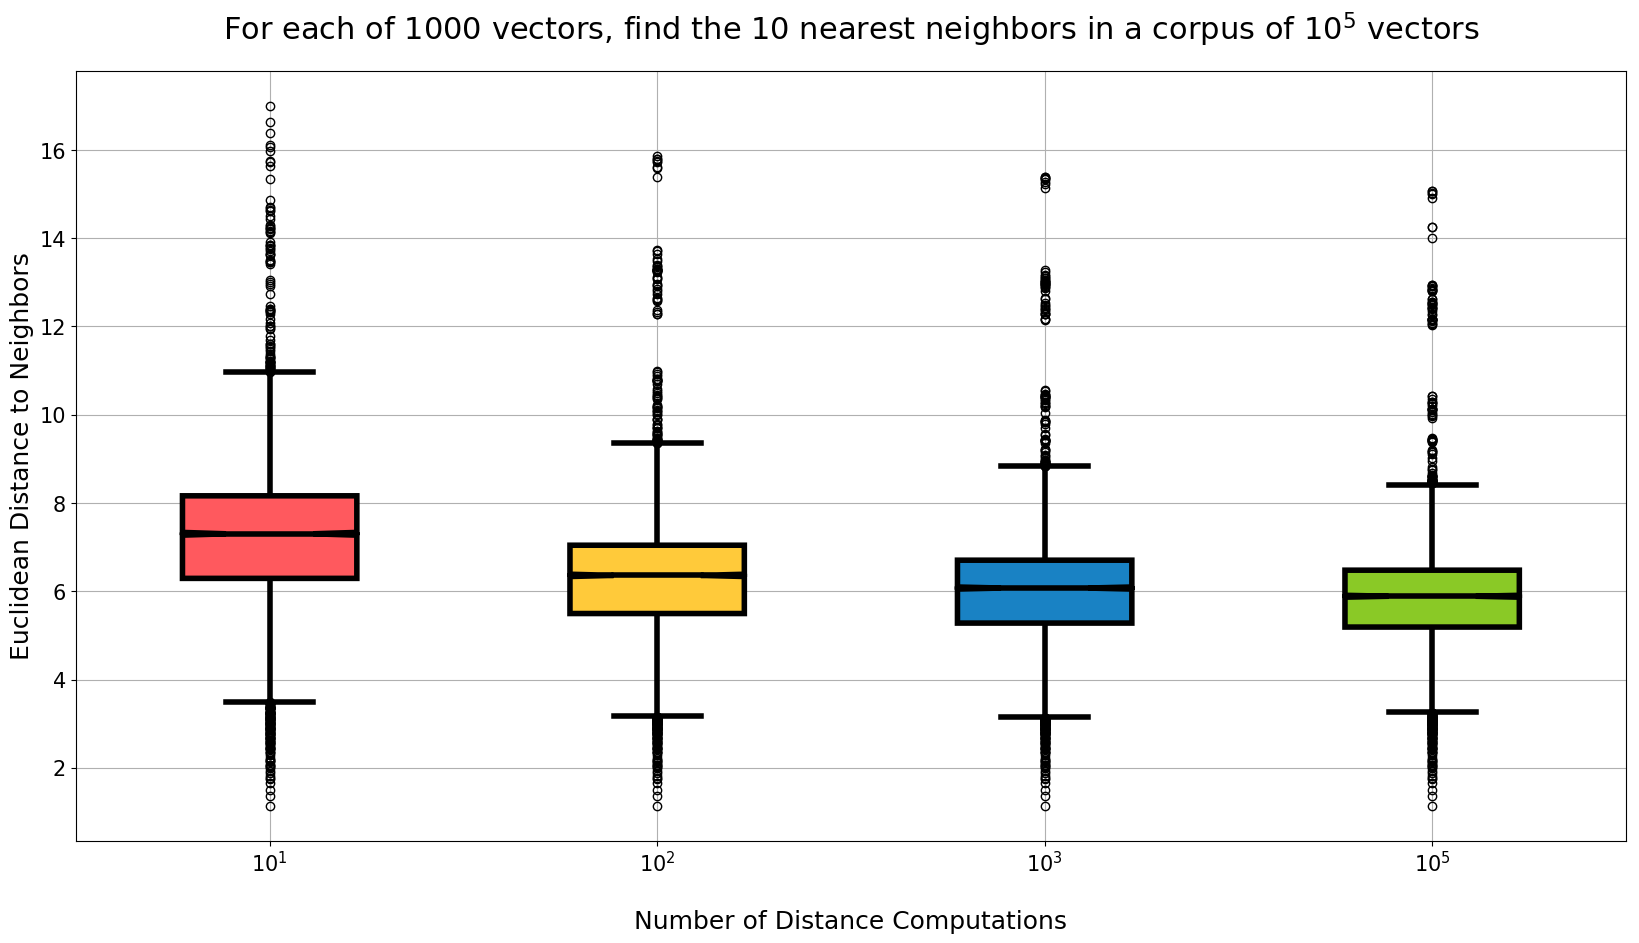
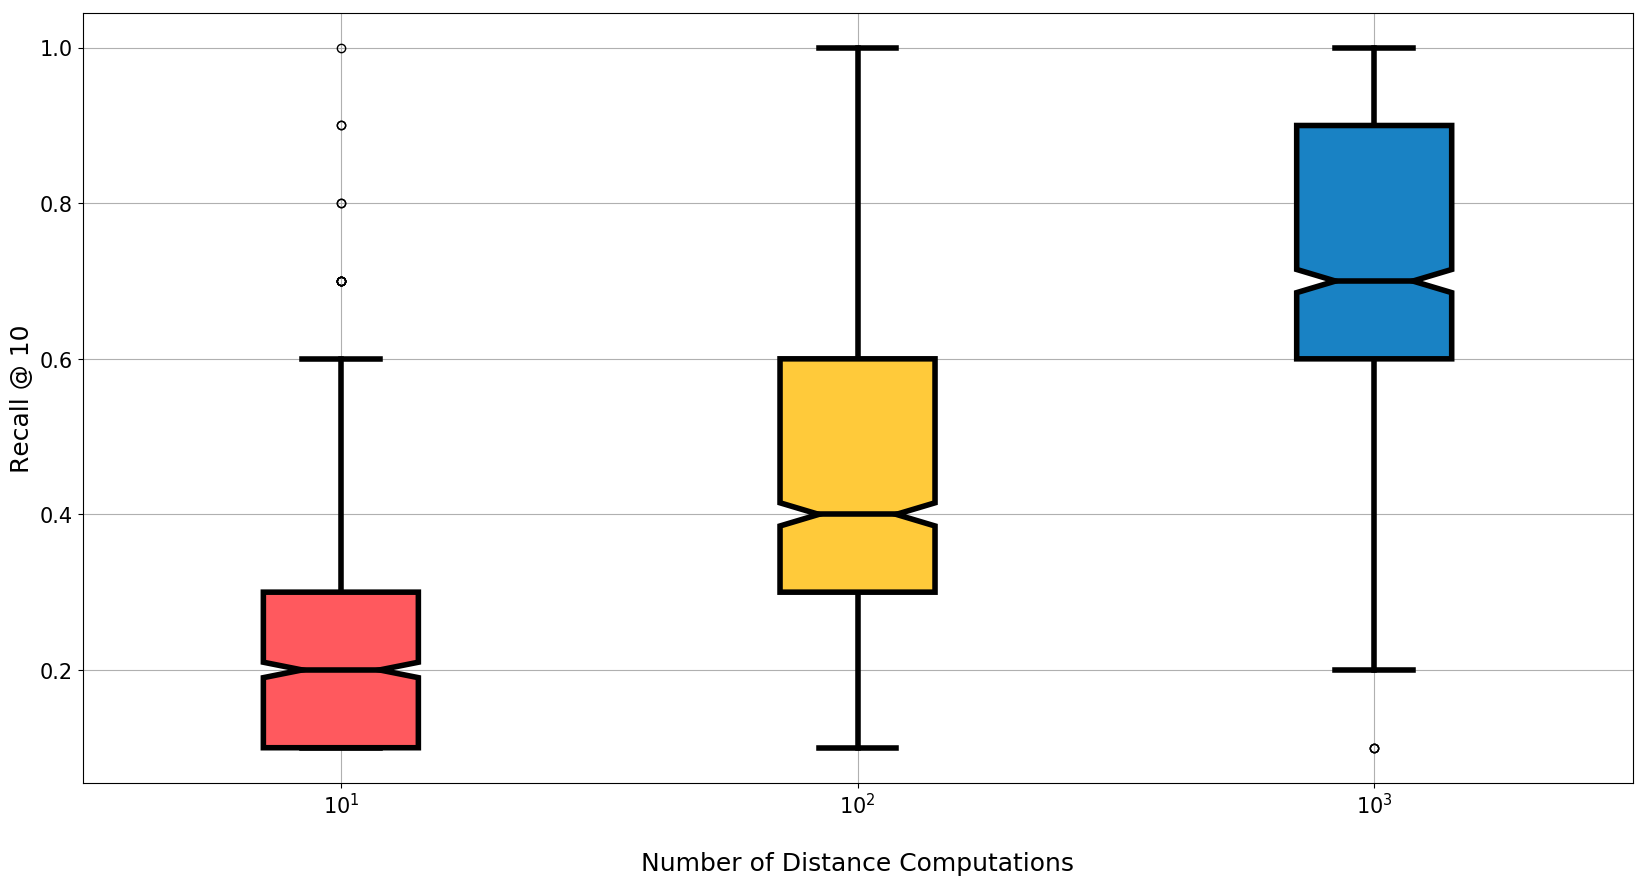
ES - round-robin indexing, measuring actual recall

diff --git a/elasticsearch-aknn/benchmark/aknn.py b/elasticsearch-aknn/benchmark/aknn.py
@@ -1,13 +1,12 @@
 """"""
 from argparse import ArgumentParser
 from collections import Counter
-from concurrent.futures import ThreadPoolExecutor, wait
+from concurrent.futures import ThreadPoolExecutor, as_completed
 from csv import DictWriter
 from itertools import cycle
 from math import log10
 from numpy import array, mean, std, vstack, zeros_like, median
 from pprint import pformat, pprint
-from sklearn.neighbors import NearestNeighbors
 from time import time
 from urllib.parse import quote_plus
 import json
@@ -30,7 +29,7 @@ def values_to_cdf(values):
     return values_unique_sorted, prlt
 
 
-def iter_over_docs(docs_path, skip=0, stop=sys.maxsize):
+def iter_local_docs(docs_path, skip=0, stop=sys.maxsize):
     for i, line in enumerate(open(docs_path)):
         if i < skip:
             continue
@@ -40,12 +39,21 @@ def iter_over_docs(docs_path, skip=0, stop=sys.maxsize):
             break
 
 
+def iter_es_docs(es_host, es_index, es_type, query={"_source": False}):
+    from elasticsearch import Elasticsearch, helpers
+    es = Elasticsearch(es_host)
+    scroll = helpers.scan(es, query=query, index=es_index, doc_type=es_type)
+    for x in scroll:
+        yield x
+    del es  # No close() method. Guess this works.
+
+
 def aknn_create(docs_path, es_hosts, es_index, es_type, es_id, description,
                 nb_dimensions, nb_tables, nb_bits, sample_prob, sample_seed):
 
     random.seed(sample_seed)
 
-    doc_iterator = iter_over_docs(docs_path)
+    doc_iterator = iter_local_docs(docs_path)
 
     es_url = es_hosts.split(",")[0]
     req_url = "%s/_aknn_create" % es_url
@@ -77,87 +85,108 @@ def aknn_create(docs_path, es_hosts, es_index, es_type, es_id, description,
     try:
         t0 = time()
         req = requests.post(req_url, json=body)
-        pdb.set_trace()
         req.raise_for_status()
         print("Request completed in %.3lf seconds" % (time() - t0))
         pprint(req.json())
     except requests.exceptions.HTTPError as ex:
-        pdb.set_trace()
         print("Request failed", ex, file=sys.stderr)
         print(ex, file=sys.stderr)
         sys.exit(1)
 
 
 def aknn_index(docs_path, metrics_path, es_hosts, es_index, es_type, aknn_uri,
-               nb_batch, nb_total_max):
+               nb_batch, nb_total_max, skip_existing):
+
+    assert es_index.lower() == es_index, "Index must be lowercase."
+    assert es_type.lower() == es_type, "Type must be lowercase."
 
     T0 = time()
-    body = {
-        "_index": es_index,
-        "_type": es_type,
-        "_aknn_uri": aknn_uri,
-        "_aknn_docs": []
-    }
 
-    es_hosts = cycle(es_hosts.split(","))
+    es_hosts = es_hosts.split(",")
+    es_hosts_iter = cycle(es_hosts)
+    print("Using %d elasticsearch hosts" % len(es_hosts), es_hosts)
 
-    # Prepare metrics csv writer.
-    fp_metrics = open(metrics_path, "w")
-    metrics_cols = ["nb_total", "nb_batch", "request_sec", "elapsed_sec"]
-    metrics_writer = DictWriter(fp_metrics, metrics_cols)
-    metrics_writer.writeheader()
-    metrics_row = {x: 0 for x in metrics_cols}
+    # Get the existing ids from the
+    ids_in_index = set([])
+    if skip_existing:
+        for doc in iter_es_docs(next(es_hosts_iter), es_index, es_type):
+            ids_in_index.add(doc["_id"])
+        print("Found %d existing ids" % len(ids_in_index))
 
-    # Get number of documents for this index/type.
-    nb_existing_url = "%s/%s/%s/_count" % (next(es_hosts), es_index, es_type)
-    try:
-        req = requests.get(nb_existing_url)
-        req.raise_for_status()
-        nb_existing = req.json()["count"]
-    except requests.exceptions.HTTPError as ex:
-        print("Request for existing count failed", ex, file=sys.stderr)
-        nb_existing = 0
+    # Based on number already in index, determine how many more to index.
+    nb_total_rem = nb_total_max - len(ids_in_index)
+    print("Indexing %d new documents" % nb_total_rem)
 
-    # Skip the existing documents in the file.
-    print("Skipping %d existing docs" % nb_existing)
-    print("Indexing %d new docs" % (nb_total_max - nb_existing))
-    doc_iterator = iter_over_docs(docs_path, nb_existing, nb_total_max)
+    # Simple iterator over local documents.
+    doc_iterator = iter_local_docs(docs_path)
 
-    for doc in doc_iterator:
-        body["_aknn_docs"].append(doc)
+    # Keep a body for each host.
+    bodies = {
+        h: {
+            "_index": es_index,
+            "_type": es_type,
+            "_aknn_uri": aknn_uri,
+            "_aknn_docs": []
+        } for h in es_hosts}
 
-        if len(body["_aknn_docs"]) == nb_batch:
-            print("Posting %d docs: [%s ... %s]" % (
-                nb_batch, body["_aknn_docs"][0]["_id"], body["_aknn_docs"][-1]["_id"]))
-            t0 = time()
-            try:
-                req_url = "%s/_aknn_index" % next(es_hosts)
-                pdb.set_trace()
-                req = requests.post(req_url, json=body)
-                req.raise_for_status()
-            except requests.exceptions.HTTPError as ex:
-                print("Request failed", file=sys.stderr)
-                print(ex, file=sys.stderr)
-                sys.exit(1)
-            body["_aknn_docs"] = []
-            metrics_row["nb_total"] += nb_batch
-            metrics_row["nb_batch"] = nb_batch
-            metrics_row["request_sec"] = round(time() - t0, 5)
-            metrics_row["elapsed_sec"] = round(time() - T0, 5)
-            metrics_writer.writerow(metrics_row)
-            print(metrics_row)
+    nb_round_robin_rem = len(es_hosts) * nb_batch
+
+    # Thread pool for parallelized round-robin requests.
+    tpool = ThreadPoolExecutor(max_workers=len(es_hosts))
+
+    while nb_total_rem > 0:
+
+        # Skip include duplicate docs.
+        doc = next(doc_iterator)
+        if doc["_id"] in ids_in_index:
+            continue
+
+        # Add a new doc to the next hosts payload and decrement counters.
+        bodies[next(es_hosts_iter)]["_aknn_docs"].append(doc)
+        nb_round_robin_rem -= 1
+        nb_total_rem -= 1
+
+        # Keep populating payloads if satisfying...
+        if nb_round_robin_rem > 0 and nb_total_rem > 0:
+            continue
+
+        # Send each host the payload that it accumulated. Keep result as future.
+        futures = []
+        for h in es_hosts:
+            body = bodies[h]
+            url = "%s/_aknn_index" % h
+            print("Sending %d docs to host %s" % (len(body["_aknn_docs"]), h))
+            futures.append(tpool.submit(requests.post, url, json=body))
+
+        # Iterate over the futures and print each host's response.
+        # Error if any of the hosts return non-200 status.
+        for f, h in zip(as_completed(futures), es_hosts):
+            print("Response from host %s:" % h, f.result().json())
+            assert f.result().status_code == 200, "Error at host %s" % h
+
+        # Reset counter and empty payloads.
+        nb_round_robin_rem = len(es_hosts) * nb_batch
+        for h in es_hosts:
+            bodies[h]["_aknn_docs"] = []
+
+        print("Total indexed docs = %d, seconds elapsed = %d" % (
+            nb_total_max - nb_total_rem, time() - T0))
 
 
-def aknn_recall(docs_path, metrics_dir, es_hosts, es_index, es_type, nb_measured,
-                k1, k2, sample_seed):
-    """Compare the distribution of euclidean distances returned for an exact
-    KNN and for various settings of Elasticsearch-Aknn."""
+def aknn_recall(docs_path, metrics_dir, es_hosts, es_index, es_type,
+                nb_measured, k1, k2, sample_seed):
+    """Compute recall for exact KNN and several settings of approximate KNN."""
 
+    from sklearn.neighbors import NearestNeighbors
+    import matplotlib
+    matplotlib.use('Agg')
     import matplotlib.pyplot as plt
     random.seed(sample_seed)
 
+    es_hosts = cycle(es_hosts.split(","))
+
     # Get number of documents for this index/type.
-    nb_existing_url = "%s/%s/%s/_count" % (es_hosts, es_index, es_type)
+    nb_existing_url = "%s/%s/%s/_count" % (next(es_hosts), es_index, es_type)
     try:
         req = requests.get(nb_existing_url)
         req.raise_for_status()
@@ -172,7 +201,7 @@ def aknn_recall(docs_path, metrics_dir, es_hosts, es_index, es_type, nb_measured
     # Compile all ids and vectors from elasticsearch into a numpy array.
     print("Reading first %d ids and vectors into memory" % nb_existing)
     ids, vecs = [], []
-    for doc in iter_over_docs(docs_path, 0, nb_existing):
+    for doc in iter_local_docs(docs_path, 0, nb_existing):
         ids.append(doc["_id"])
         vecs.append(array(doc["_source"]["_aknn_vector"]).astype('float32'))
     vecs = vstack(vecs)
@@ -184,29 +213,34 @@ def aknn_recall(docs_path, metrics_dir, es_hosts, es_index, es_type, nb_measured
     boxplot_data = []
     thread_pool = ThreadPoolExecutor(max_workers=20)
 
+    print("Computing exact KNN")
+    knn = NearestNeighbors(k2, algorithm='brute',
+                           metric='euclidean').fit(vecs)
+    nbrs_inds = knn.kneighbors(vecs[measured_ind], return_distance=False)
+    id_to_nbr_ids = {}
+    for id_, nbrs_inds_ in zip(measured_ids, nbrs_inds):
+        id_to_nbr_ids[id_] = [ids[i] for i in nbrs_inds_]
+
+    boxplot_data = []
+
     for k1_ in map(int, k1.split(",")):
 
-        print("Computing approximate KNN for k1=%d" % k1_)
+        print("Searching approximate KNN for k1=%d" % k1_)
         search_urls = []
         for i, id_ in enumerate(measured_ids):
             search_urls.append(
                 "%s/%s/%s/%s/_aknn_search?k1=%d&k2=%d" % (
-                    es_hosts, es_index, es_type, quote_plus(id_), k1_, k2))
+                    next(es_hosts), es_index, es_type, quote_plus(id_), k1_, k2))
 
         reqs = list(thread_pool.map(requests.get, search_urls))
-        dd = []
-        for i, req in enumerate(reqs):
-            dd += [x["_score"] for x in req.json()["hits"]["hits"][1:]]
+        recalls = []
+        for id_, req in zip(measured_ids, reqs):
+            nbr_ids_exact = id_to_nbr_ids[id_]
+            nbr_ids_approx = [x["_id"] for x in req.json()["hits"]["hits"]]
+            nb_intersect = len(set(nbr_ids_exact).intersection(nbr_ids_approx))
+            recalls.append(nb_intersect / k2)
 
-        print("Approx mean, std = (%.3lf, %.3lf)" % (mean(dd), std(dd)))
-        boxplot_data.append(dd)
-
-    print("Computing exact KNN")
-    knn = NearestNeighbors(k2, algorithm='brute', metric='euclidean').fit(vecs)
-    dd, _ = knn.kneighbors(vecs[measured_ind], return_distance=True)
-    dd = dd[:, 1:].ravel().tolist()
-    print("Exact mean, std =  (%.3lf, %.3lf)" % (mean(dd), std(dd)))
-    boxplot_data.append(dd)
+        boxplot_data.append(recalls)
 
     plt.figure(figsize=(20, 10))
     plt.grid(True)
@@ -224,17 +258,16 @@ def aknn_recall(docs_path, metrics_dir, es_hosts, es_index, es_type, nb_measured
         for x in bp[k]:
             x.set(linewidth=4)
 
-    xticks = ["$10^%d$" % log10(int(x)) for x in k1.split(",") + [nb_existing]]
+    xticks = ["$10^%d$" % log10(int(x)) for x in k1.split(",")]
     plt.xticks(range(1, len(boxplot_data) + 1), xticks, fontsize=15)
     plt.yticks(fontsize=15)
     plt.xlabel("\nNumber of Distance Computations", size=18)
-    plt.ylabel("Euclidean Distance to Neighbors", size=18)
-    plt.title("For each of %d vectors, find the %d nearest neighbors in a corpus of $10^%d$ vectors" % (
-        nb_measured, k2, log10(nb_existing)), size=22, y=1.03)
+    plt.ylabel("Recall @ %d" % k2, size=18)
 
     fig_path = "%s/recall_boxplot.png" % metrics_dir
     plt.savefig(fig_path, bbox_inches='tight', pad_inches=0.1)
     print("Saved figure at %s" % fig_path)
+
 
 if __name__ == "__main__":
 
@@ -242,7 +275,8 @@ if __name__ == "__main__":
     ap.add_argument("-e", "--es_hosts", default="http://localhost:9200",
                     help="comma-separated list of elasticsearch endpoints")
 
-    sp_base = ap.add_subparsers(title='actions', description='Choose an action')
+    sp_base = ap.add_subparsers(
+        title='actions', description='Choose an action')
 
     sp_c = sp_base.add_parser("create")
     sp_c.set_defaults(which="create")
@@ -266,6 +300,7 @@ if __name__ == "__main__":
     sp_i.add_argument("--es_type", type=str, required=True)
     sp_i.add_argument("--nb_batch", type=int, default=5000)
     sp_i.add_argument("--nb_total_max", type=int, default=100000)
+    sp_i.add_argument("--skip_existing", action="store_true")
 
     sp_s = sp_base.add_parser("search")
     sp_s.set_defaults(which="search")

diff --git a/elasticsearch-aknn/README.md b/elasticsearch-aknn/README.md
@@ -24,3 +24,4 @@ For now, see commands in `testplugin.sh` script.
 - Enforce an explicit mapping for new Aknn models stored in Elasticsearch. For example, the continuous hyperplanes should not be indexed. 
 - Enforce an explicit mapping for new vector documents stored in Elasticsearch. For example, the continuous vectors should not be indexed.
 - Cache the Aknn model by its URI, so that it doesn't have to be requested and deserialized for every new batch of documents. Perhaps add a `bust_cache` flag to the `_aknn_index` endpoint which would force the server to re-GET the Aknn model document.
+- Error check the indexing to prevent silent failures. For example, I tried to create a document with a non-lowercase index; Elasticsearch failed to index the document, but it still returned 200.

diff --git a/elasticsearch-aknn/benchmark/readme.md b/elasticsearch-aknn/benchmark/readme.md
@@ -28,7 +28,7 @@ For example, the preprocessed Glove vectors look like this:
 ## Create a new Aknn model from preprocessed Glove vectors
 
 ```
-python -m aknn --es_hosts http://localhost:9200 create \
+python3 aknn.py --es_hosts $ESHOSTS create \
 	glove.840B.300d.docs.txt \
 	--es_index aknn_models \
 	--es_type aknn_model \
@@ -36,7 +36,7 @@ python -m aknn --es_hosts http://localhost:9200 create \
 	--description "Aknn model for glove.840B.300d.txt" \
 	--nb_dimensions 300 \
 	--nb_tables 32 \
-	--nb_bits 16
+	--nb_bits 32
 ```
 
 ## Index a large collection of Glove vectors
